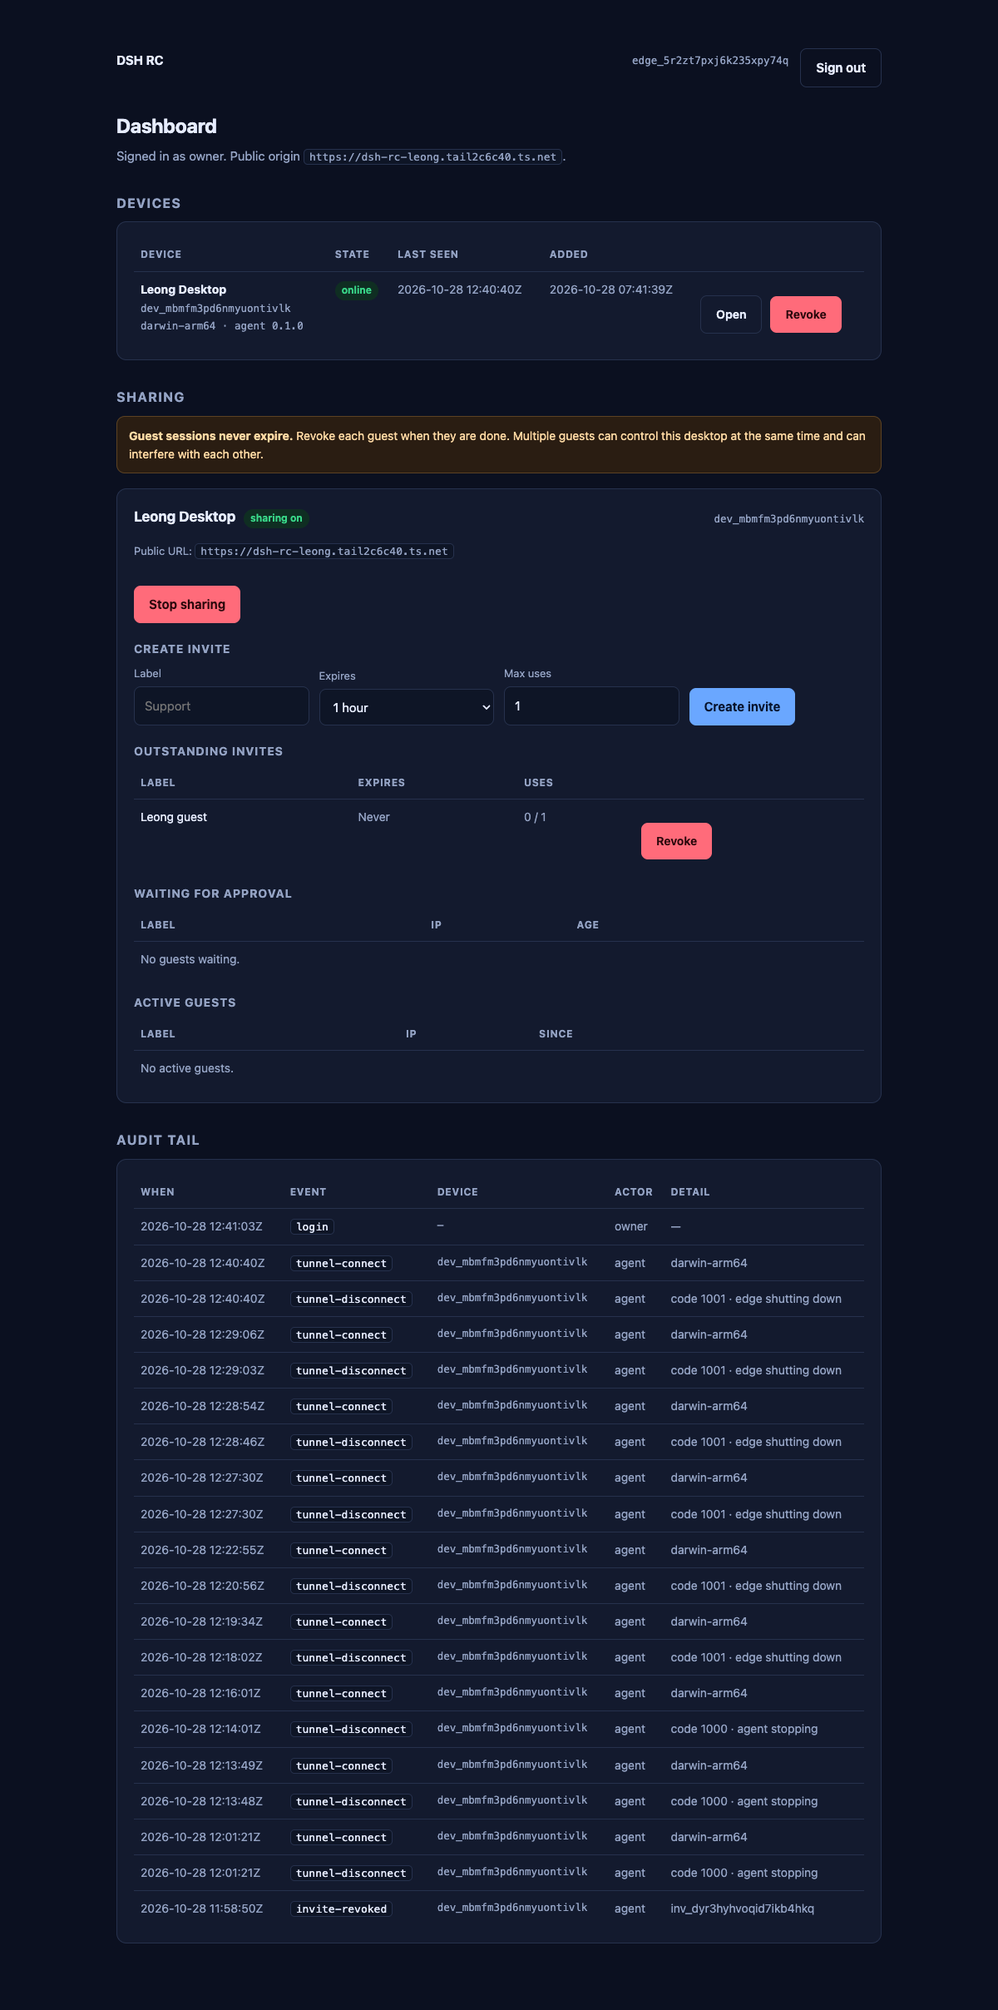
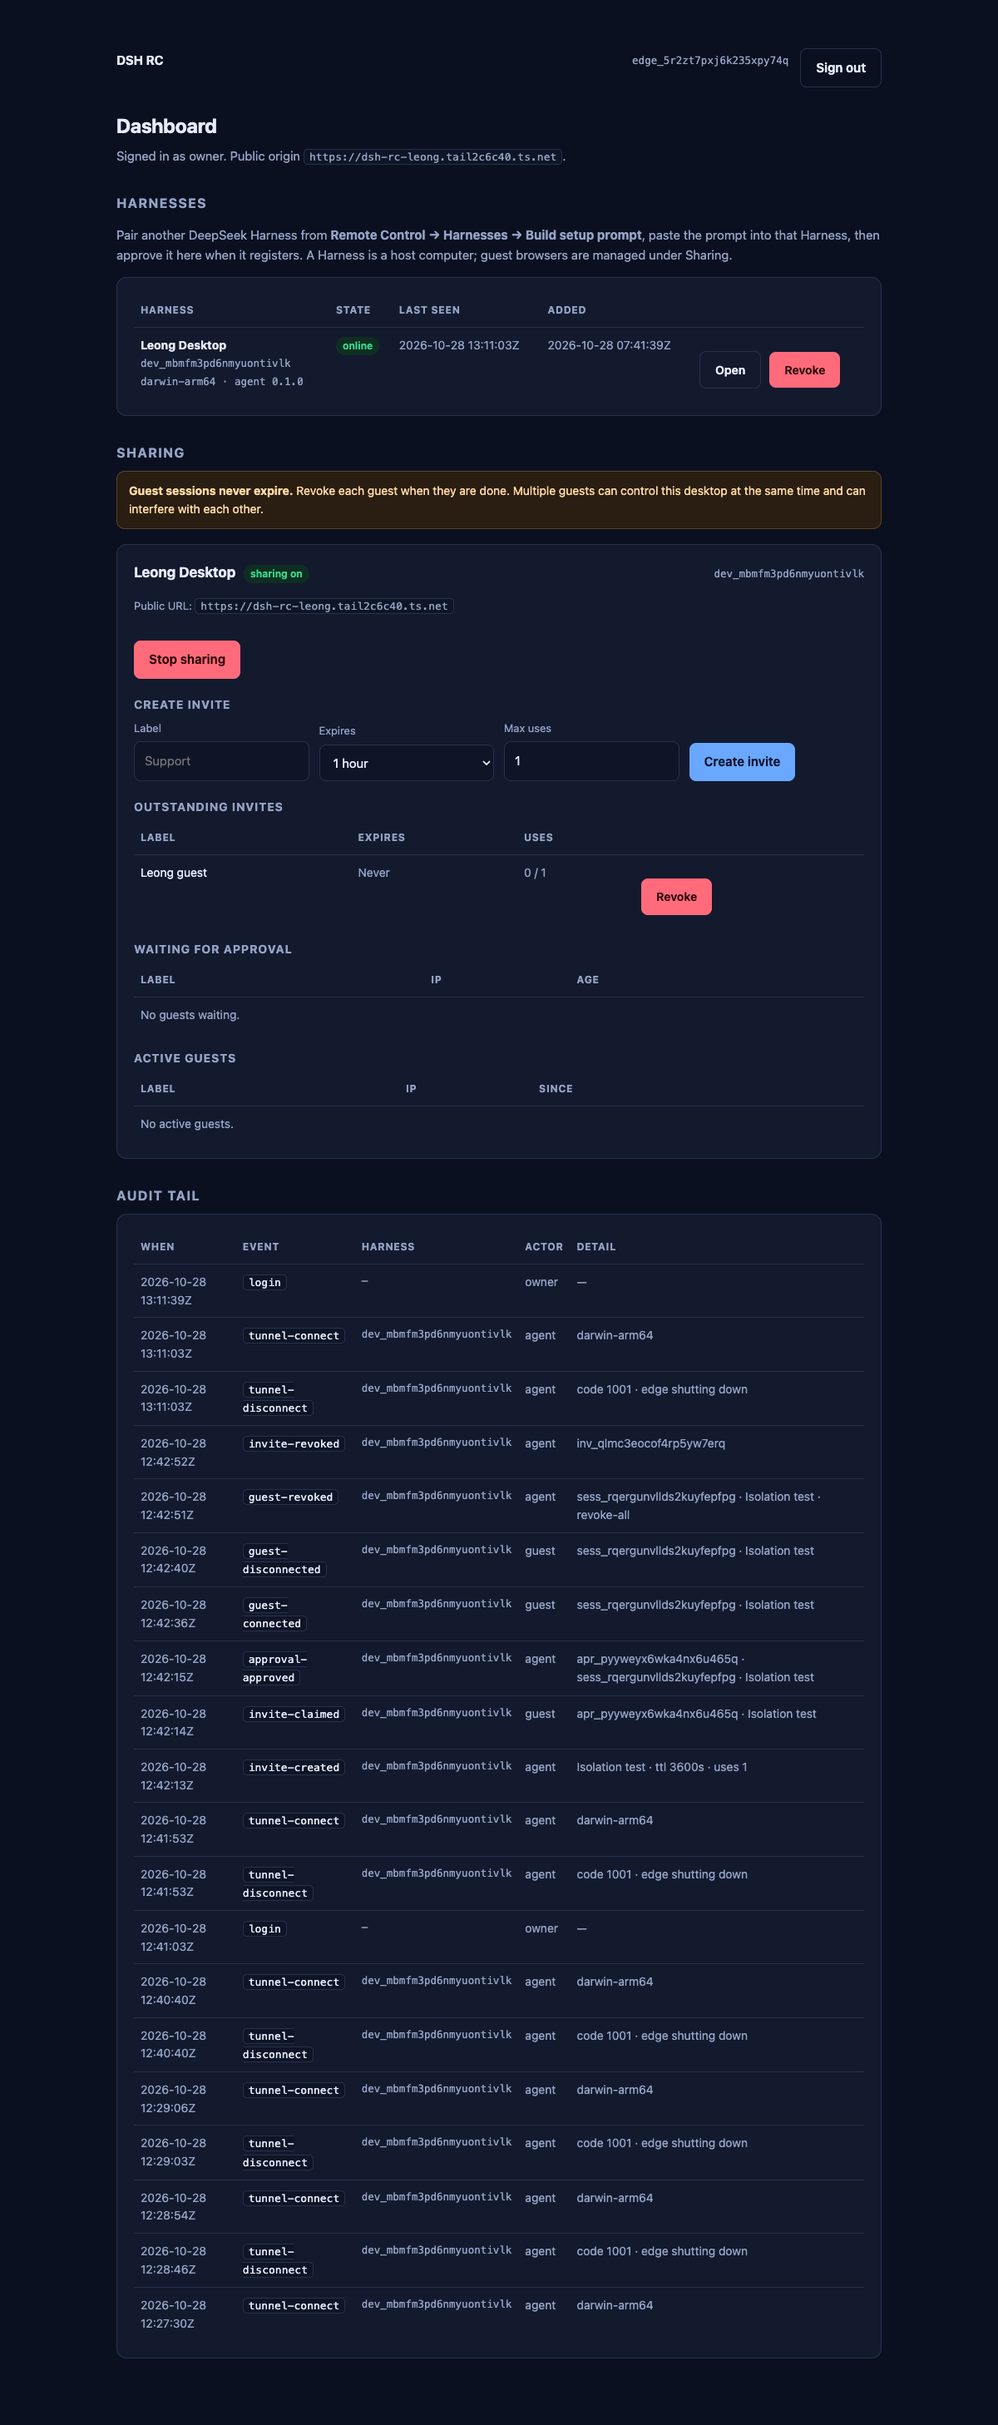
feat: pair another DeepSeek Harness as a host
- Remote Control gets a Harnesses section before guest sharing:
  Build setup prompt -> copy one paragraph -> paste into another Harness
- scripts/join-edge.sh does the actual join: clone/pin, install plugin into the
  running profile (desktop manual path + pnpm/symlink fallback), point the agent
  at the public edge, append the patch; no secrets in the prompt
- edge dashboard renames Devices to Harnesses and explains pairing vs guest
  sharing; pending Harness approval unchanged
- fixes fresh-profile cordis.patch.yml '[]' append bug; validates YAML
- docs/SHARING distinguishes Harness pairing (host) from guest sharing (browser)
- 280 tests

diff --git a/packages/plugin/src/client/index.ts b/packages/plugin/src/client/index.ts
@@ -137,7 +137,7 @@ const EN: Record<string, string> = {
   stoppedHint: 'The agent is not running.',
   qrHint: 'Scan to open the pairing link in a browser.',
   unconfigured: 'Set edgeUrl in the plugin config before starting.',
-  sharingTitle: 'Share this Harness',
+  sharingTitle: 'Share this Harness with guests',
   sharingOffHint: 'Off — nobody else can connect.',
   sharingOnHint: 'On — anyone with an invite link can request access. You approve every guest.',
   sharingOn: 'On',
@@ -166,6 +166,18 @@ const EN: Record<string, string> = {
   sharingMultiWarning: 'Multiple guests share this one desktop — workspace, terminal and tools. They can interfere with each other.',
   sharingLoopbackWarning: 'Guests need a public edge URL. This edge advertises a loopback or unknown address, so an invite link will not open from another machine. Use Tailscale Funnel or a VPS edge.',
   sharingInvites: 'Outstanding invites',
+  harnessTitle: 'Harnesses',
+  harnessManage: 'Manage / approve',
+  harnessHint: 'Pair another DeepSeek Harness as a host on this edge. Copy the setup prompt into that Harness; when it registers, approve it in the edge dashboard.',
+  sharingJoinTitle: 'Add another DeepSeek Harness',
+  sharingJoinHint: 'The prompt installs DSH RC on that Harness, points its agent at this edge, and waits for your approval. It contains no password or secret.',
+  sharingJoinButton: 'Build setup prompt',
+  sharingJoinBuilding: 'Building…',
+  sharingJoinCopy: 'Copy prompt',
+  sharingJoinCopied: 'Copied',
+  sharingJoinShown: 'Setup prompt (paste into the other Harness)',
+  sharingJoinPublicUrl: 'Set a public edge URL (Tailscale Funnel or a VPS) before adding another computer.',
+  sharingJoinUnavailable: 'Could not build the setup prompt.',
   sharingNoInvites: 'No outstanding invites.',
   sharingRevokeInvite: 'Revoke invite',
   sharingConfirmRevokeInvite: 'Revoke this invite link?',
@@ -215,7 +227,7 @@ const ZH: Record<string, string> = {
   stoppedHint: '代理未运行。',
   qrHint: '扫码在浏览器中打开配对链接。',
   unconfigured: '请先在插件配置中设置 edgeUrl。',
-  sharingTitle: '共享此 Harness',
+  sharingTitle: '与访客共享此 Harness',
   sharingOffHint: '已关闭——其他人无法连接。',
   sharingOnHint: '已开启——任何持有邀请链接的人都可以申请访问。每位访客都需要你批准。',
   sharingOn: '开',
@@ -244,6 +256,18 @@ const ZH: Record<string, string> = {
   sharingMultiWarning: '多位访客共享同一台桌面——工作区、终端和工具都可被操作，他们可能互相干扰。',
   sharingLoopbackWarning: '访客需要可公开访问的边缘地址。当前边缘节点广播的是回环或未知地址，因此邀请链接无法从其他机器打开。请使用 Tailscale Funnel 或 VPS 边缘节点。',
   sharingInvites: '未使用的邀请',
+  harnessTitle: 'Harness 主机',
+  harnessManage: '管理 / 批准',
+  harnessHint: '把另一台 DeepSeek Harness 作为主机配对到此 edge。复制安装提示到那台 Harness；它注册后，在 edge 仪表盘批准。',
+  sharingJoinTitle: '添加另一台 DeepSeek Harness',
+  sharingJoinHint: '提示会在那台 Harness 上安装 DSH RC、把 agent 指向此 edge，并等待你的批准。提示中不含密码或密钥。',
+  sharingJoinButton: '生成安装提示',
+  sharingJoinBuilding: '生成中…',
+  sharingJoinCopy: '复制提示',
+  sharingJoinCopied: '已复制',
+  sharingJoinShown: '安装提示（粘贴到另一台 Harness）',
+  sharingJoinPublicUrl: '请先配置公开 edge 地址（Tailscale Funnel 或 VPS），再添加另一台电脑。',
+  sharingJoinUnavailable: '无法生成安装提示。',
   sharingNoInvites: '没有未使用的邀请。',
   sharingRevokeInvite: '撤销邀请',
   sharingConfirmRevokeInvite: '撤销此邀请链接？',
@@ -681,6 +705,9 @@ function createComponent(React: any): (props: AnyProps) => any {
     const [sharing, setSharing] = ReactUse.useState(undefined as SharingView | undefined);
     const [sharingError, setSharingError] = ReactUse.useState(undefined as string | undefined);
     const [sharingBusy, setSharingBusy] = ReactUse.useState(false);
+    const [joinPrompt, setJoinPrompt] = ReactUse.useState(undefined as string | undefined);
+    const [joinCopied, setJoinCopied] = ReactUse.useState(false);
+    const [joinError, setJoinError] = ReactUse.useState(undefined as string | undefined);
     const [ttlSeconds, setTtlSeconds] = ReactUse.useState(900);
     const [invite, setInvite] = ReactUse.useState(undefined as CreatedInviteView | undefined);
     const [inviteCopied, setInviteCopied] = ReactUse.useState(false);
@@ -851,6 +878,51 @@ function createComponent(React: any): (props: AnyProps) => any {
         }
         setInviteCopied(true);
         window.setTimeout(() => setInviteCopied(false), 1500);
+      } catch (reason) {
+        setSharingError(messageOf(reason));
+      }
+    };
+
+    const dashboardUrl = (() => {
+      const publicUrl = typeof sharing?.publicUrl === 'string' ? sharing.publicUrl : '';
+      if (publicUrl !== '' && !isLoopbackPublicUrl(publicUrl)) return publicUrl.replace(/\/+$/, '');
+      return (status?.edgeUrl ?? '').replace(/\/+$/, '');
+    })();
+
+    const openDashboard = (): void => {
+      if (dashboardUrl === '') return;
+      window.open(`${dashboardUrl}/`, '_blank', 'noopener,noreferrer');
+    };
+
+    const createJoinPrompt = (): void => {
+      void withSharingBusy(async () => {
+        setJoinError(undefined);
+        const result = (await call('sharing.joinPrompt')) as { prompt?: string; reason?: string };
+        if (typeof result.prompt === 'string' && result.prompt !== '') {
+          setJoinPrompt(result.prompt);
+          setJoinCopied(false);
+        } else {
+          setJoinError(result.reason === 'public-url-required' ? t('sharingJoinPublicUrl') : t('sharingJoinUnavailable'));
+        }
+      });
+    };
+
+    const copyJoinPrompt = async (): Promise<void> => {
+      if (joinPrompt === undefined || joinPrompt === '') return;
+      try {
+        if (navigator.clipboard !== undefined) await navigator.clipboard.writeText(joinPrompt);
+        else {
+          const area = document.createElement('textarea');
+          area.value = joinPrompt;
+          area.style.position = 'fixed';
+          area.style.opacity = '0';
+          document.body.appendChild(area);
+          area.select();
+          document.execCommand('copy');
+          area.remove();
+        }
+        setJoinCopied(true);
+        window.setTimeout(() => setJoinCopied(false), 1500);
       } catch (reason) {
         setSharingError(messageOf(reason));
       }
@@ -1089,6 +1161,43 @@ function createComponent(React: any): (props: AnyProps) => any {
         : null,
     );
 
+    const harnessSection = h(
+      'div',
+      { style: styles.divider },
+      h(
+        'div',
+        { style: styles.sectionHeader },
+        h('div', { style: styles.sectionTitle }, t('harnessTitle')),
+        dashboardUrl !== ''
+          ? h('button', { type: 'button', style: styles.smallButton, onClick: openDashboard }, t('harnessManage'))
+          : null,
+      ),
+      h('div', { style: styles.sectionHint }, t('harnessHint')),
+      h('div', { style: styles.subheading }, t('sharingJoinTitle')),
+      h('div', { style: styles.footerHint }, t('sharingJoinHint')),
+      h(
+        'button',
+        { type: 'button', style: styles.button(false), disabled: sharingBusy || unavailable, onClick: createJoinPrompt },
+        sharingBusy ? t('sharingJoinBuilding') : t('sharingJoinButton'),
+      ),
+      joinError !== undefined ? h('div', { style: sharingWarningStyle('#f59e0b') }, joinError) : null,
+      joinPrompt !== undefined
+        ? h(
+            'div',
+            { style: { marginTop: '10px' } },
+            h('div', { style: styles.label }, t('sharingJoinShown')),
+            h('textarea', {
+              style: { ...styles.input, width: '100%', minHeight: '120px', resize: 'vertical', fontFamily: 'inherit', fontSize: '11px', lineHeight: '16px' },
+              readOnly: true,
+              value: joinPrompt,
+              'aria-label': t('sharingJoinShown'),
+              onFocus: (event: any) => event.target.select(),
+            }),
+            h('button', { type: 'button', style: styles.smallButton, onClick: () => void copyJoinPrompt() }, joinCopied ? t('sharingJoinCopied') : t('sharingJoinCopy')),
+          )
+        : null,
+    );
+
     return h(
       'div',
       null,
@@ -1195,6 +1304,7 @@ function createComponent(React: any): (props: AnyProps) => any {
               ),
               status?.state === 'stopped' && !unavailable ? h('div', { style: styles.footerHint }, t('stoppedHint')) : null,
               status?.enabled === false && !unavailable ? h('div', { style: styles.footerHint }, t('disabledHint')) : null,
+              harnessSection,
               sharingSection,
             ),
           )

diff --git a/packages/plugin/src/onboard.ts b/packages/plugin/src/onboard.ts
@@ -1,0 +1,54 @@
+/**
+ * One-paragraph onboarding prompt for another DeepSeek Harness computer.
+ *
+ * The prompt is deliberately self-contained: it carries the public edge URL and
+ * the pinned version, but never a password, device secret, invite token or DSH
+ * token. The host owner still approves the new device, which is the security
+ * boundary that makes a copy-paste prompt safe.
+ */
+
+export const REPO_URL = 'https://github.com/yeerock/deepseek-harness-remote-control';
+export const REPO_TAG = 'v0.2.0';
+export const PLUGIN_VERSION = '0.2.0';
+
+export interface JoinPromptOptions {
+  /** Public edge origin; loopback URLs are rejected by the caller. */
+  publicUrl: string;
+  /** Device label the new host should use. */
+  hostname: string;
+  /** Plugin version pinned into the prompt. */
+  version?: string;
+  /** Repository URL; tests may override, production uses the constant. */
+  repoUrl?: string;
+  tag?: string;
+}
+
+/** True for localhost/loopback origins, where a prompt cannot help another machine. */
+export function isLoopbackOrigin(value: string): boolean {
+  try {
+    const url = new URL(value);
+    const host = url.hostname.replace(/^\[|\]$/g, '').toLowerCase();
+    return host === 'localhost' || host === '::1' || host === '0.0.0.0' || host.startsWith('127.');
+  } catch {
+    return true;
+  }
+}
+
+/**
+ * Build the copy-paste prompt. One paragraph by design: agents receive it as a
+ * single instruction and can still parse the numbered steps.
+ */
+export function buildJoinPrompt(options: JoinPromptOptions): string {
+  const repo = (options.repoUrl ?? REPO_URL).replace(/\/+$/, '');
+  const tag = options.tag ?? REPO_TAG;
+  const version = options.version ?? PLUGIN_VERSION;
+  const edge = options.publicUrl.replace(/\/+$/, '');
+  const hostname = options.hostname.replace(/["\r\n]/g, '').slice(0, 64) || 'dsh-desktop';
+  return [
+    `You are on a DeepSeek Harness desktop. Pair this Harness as a DSH RC ${version} host on the existing edge at ${edge} (device name "${hostname}"), end to end, without asking for the owner password or any secret.`,
+    `(1) If ~/dsh-rc does not exist, run: git clone --branch ${tag} ${repo} ~/dsh-rc ; otherwise run: cd ~/dsh-rc && git fetch --tags && git checkout ${tag}.`,
+    `(2) Run: ~/dsh-rc/scripts/join-edge.sh "${edge}" "${hostname}" . That script installs DSH RC into the profile this Harness instance uses, points its agent at the edge, and prints the restart step.`,
+    `(3) Ask me to restart DeepSeek Harness; after the restart confirm that ~/.dsh/rc/status.json reaches state "online" and report its deviceId.`,
+    `(4) Stop and wait: I will approve this Harness as a device in Remote Control or the edge dashboard. Do not enable sharing, do not request or share the owner password, do not use a guest invite link, and do not modify other profile entries. Report every command you ran and any error.`,
+  ].join(' ');
+}

diff --git a/apps/edge/src/pages.ts b/apps/edge/src/pages.ts
@@ -162,7 +162,7 @@ export function dashboardPage(options: {
   publicOrigin: string;
 }): string {
   const rows = options.devices.length === 0
-    ? `<tr><td colspan="5" class="muted">No devices yet. Start the agent and it will register itself.</td></tr>`
+    ? `<tr><td colspan="5" class="muted">No Harnesses yet. Start the agent on a computer and it will register itself here.</td></tr>`
     : options.devices
         .map(({ device, online, reconnecting }) => {
           const state = device.status === 'revoked'
@@ -295,9 +295,10 @@ export function dashboardPage(options: {
 <form class="inline" method="post" action="/logout"><input type="hidden" name="csrf" value="${escapeHtml(options.csrf)}"><button class="secondary" type="submit">Sign out</button></form>`)}
 <h1>Dashboard</h1>
 <p class="lede">Signed in as ${escapeHtml(options.ownerName)}. Public origin <code>${escapeHtml(options.publicOrigin)}</code>.</p>
-<h2>Devices</h2>
+<h2>Harnesses</h2>
+<p class="muted">Pair another DeepSeek Harness from <strong>Remote Control → Harnesses → Build setup prompt</strong>, paste the prompt into that Harness, then approve it here when it registers. A Harness is a host computer; guest browsers are managed under Sharing.</p>
 <div class="panel"><table>
-<thead><tr><th>Device</th><th>State</th><th>Last seen</th><th>Added</th><th></th></tr></thead>
+<thead><tr><th>Harness</th><th>State</th><th>Last seen</th><th>Added</th><th></th></tr></thead>
 <tbody>${rows}</tbody>
 </table></div>
 <h2>Sharing</h2>
@@ -305,7 +306,7 @@ export function dashboardPage(options: {
 ${sharingSections}
 <h2>Audit tail</h2>
 <div class="panel"><table>
-<thead><tr><th>When</th><th>Event</th><th>Device</th><th>Actor</th><th>Detail</th></tr></thead>
+<thead><tr><th>When</th><th>Event</th><th>Harness</th><th>Actor</th><th>Detail</th></tr></thead>
 <tbody>${auditRows}</tbody>
 </table></div>`,
   );
@@ -422,7 +423,7 @@ export function guestSessionPage(options: {
   <p><span class="badge online">connected</span></p>
   <table>
     <tbody>
-      <tr><th>Device</th><td>${escapeHtml(options.deviceName)} <span class="mono">${escapeHtml(options.deviceId)}</span></td></tr>
+      <tr><th>Harness</th><td>${escapeHtml(options.deviceName)} <span class="mono">${escapeHtml(options.deviceId)}</span></td></tr>
       <tr><th>Label</th><td>${escapeHtml(options.label)}</td></tr>
       <tr><th>Since</th><td>${escapeHtml(formatTime(options.since))}</td></tr>
       <tr><th>Expires</th><td>Never — the host revokes this session explicitly.</td></tr>

diff --git a/packages/plugin/tests/onboard.test.ts b/packages/plugin/tests/onboard.test.ts
@@ -1,0 +1,47 @@
+import { describe, expect, it } from 'vitest';
+import { buildJoinPrompt, isLoopbackOrigin, REPO_TAG, REPO_URL } from '../src/onboard.js';
+
+describe('join prompt', () => {
+  const base = {
+    publicUrl: 'https://dsh-rc.example.ts.net',
+    hostname: 'workshop-mac',
+    version: '0.2.0',
+  };
+
+  it('carries the public edge, pinned tag, repository and device name', () => {
+    const prompt = buildJoinPrompt(base);
+    expect(prompt).toContain('https://dsh-rc.example.ts.net');
+    expect(prompt).toContain(REPO_URL);
+    expect(prompt).toContain(REPO_TAG);
+    expect(prompt).toContain('workshop-mac');
+    expect(prompt).toContain('DSH RC 0.2.0');
+    expect(prompt).toContain('git clone --branch');
+    expect(prompt).toContain('scripts/join-edge.sh');
+    expect(prompt).toContain('~/.dsh/rc/status.json');
+  });
+
+  it('is one paragraph with no newlines or secrets', () => {
+    const prompt = buildJoinPrompt(base);
+    expect(prompt).not.toContain('\n');
+    expect(prompt).not.toContain('dshrc_guest');
+    expect(prompt).not.toContain('dshrc_session');
+    expect(prompt).not.toContain('deviceSecret');
+    expect(prompt).not.toContain('Bearer ');
+    expect(prompt.includes('owner password')).toBe(true); // only as "do not ask for"
+  });
+
+  it('sanitizes the device name and trailing slashes', () => {
+    const prompt = buildJoinPrompt({ ...base, publicUrl: 'https://edge.example/', hostname: 'bad\r\nname"' });
+    expect(prompt).toContain('https://edge.example');
+    expect(prompt).not.toContain('https://edge.example/');
+    expect(prompt).not.toContain('\r');
+    expect(prompt).not.toContain('bad\nname');
+  });
+
+  it('classifies loopback and invalid origins', () => {
+    for (const value of ['http://127.0.0.1:8787', 'http://localhost:8787', 'https://[::1]/', 'not a url']) {
+      expect(isLoopbackOrigin(value), value).toBe(true);
+    }
+    expect(isLoopbackOrigin('https://dsh-rc.example.ts.net')).toBe(false);
+  });
+});

diff --git a/packages/plugin/src/host.ts b/packages/plugin/src/host.ts
@@ -10,6 +10,7 @@
  */
 
 import { mkdir, writeFile } from 'node:fs/promises';
+import { hostname } from 'node:os';
 import type { IncomingMessage, ServerResponse } from 'node:http';
 import { join } from 'node:path';
 
@@ -29,6 +30,7 @@ import type { DshRcStatus, RpcReply } from './contract.js';
 import { normalizeConfig, resolveDeviceName, resolveStateDir } from './config.js';
 import type { PluginConfig } from './config.js';
 import { SharingClient, sharingErrorCode } from './sharing.js';
+import { buildJoinPrompt, isLoopbackOrigin, PLUGIN_VERSION } from './onboard.js';
 import type { CreatedInvite, SharingState } from './sharing.js';
 
 /** Minimal structural view of the cordis context this plugin uses. */
@@ -454,6 +456,14 @@ export async function dispatchEndpoint(target: SharingRpcTarget, endpoint: strin
       }
       case 'sharing.revokeAll':
         return rpcOk(await target.sharingRevokeAll());
+      case 'sharing.joinPrompt': {
+        const state = await target.sharingGet();
+        const publicUrl = typeof (state as { publicUrl?: unknown }).publicUrl === 'string' ? String((state as { publicUrl: string }).publicUrl) : '';
+        if (publicUrl === '' || isLoopbackOrigin(publicUrl)) {
+          return rpcOk({ prompt: null, reason: 'public-url-required' });
+        }
+        return rpcOk({ prompt: buildJoinPrompt({ publicUrl, hostname: hostname(), version: PLUGIN_VERSION }) });
+      }
       default:
         return rpcFail('not-found', `unknown dsh-rc endpoint ${JSON.stringify(endpoint)}`);
     }

diff --git a/README.md b/README.md
@@ -174,6 +174,21 @@ Full install, configuration and troubleshooting:
 [packages/plugin/README.md](packages/plugin/README.md). Deployment shapes,
 flags and systemd: [DEPLOY.md](docs/DEPLOY.md).
 
+## Pair another DeepSeek Harness
+
+A Harness is a host computer running DSH. To bring another one onto the same
+edge, open **Remote Control → Harnesses → Build setup prompt** on this host,
+copy the one-paragraph prompt, and paste it into the other Harness's agent.
+The prompt clones the pinned release, installs the plugin into that machine's
+profile, points its agent at this edge, and asks you to restart. When it
+registers it appears as a pending Harness in the edge dashboard; approve it,
+and its UI is available at `https://<edge>/d/<deviceId>/`.
+
+The prompt contains no password, device secret or invite token. Pairing is
+authorized by your **approval** on the edge, not by a shared secret. This is
+different from guest sharing below: a Harness is a host you own and can open
+directly; a guest is a browser you have granted control of one host.
+
 ## Share this Harness with a guest
 
 Sharing lets another person remote-control your Harness from a browser without

diff --git a/packages/plugin/README.md b/packages/plugin/README.md
@@ -173,6 +173,14 @@ If the host half is not loaded (or its RPC route failed), the panel says
 panel polls every 4 s closed / 1.5 s open.
 
 
+## Harnesses
+
+`Add another DeepSeek Harness` builds a one-paragraph prompt from the current
+public edge URL. Paste it into another Harness; its agent clones the pinned
+release, installs the plugin, points its agent at this edge, and restarts. The
+device appears as pending in the edge dashboard and must be approved by the
+owner. The prompt contains no password or secret.
+
 ## Sharing this Harness with guests
 
 The panel has a **Share this Harness** switch (off by default) under the
